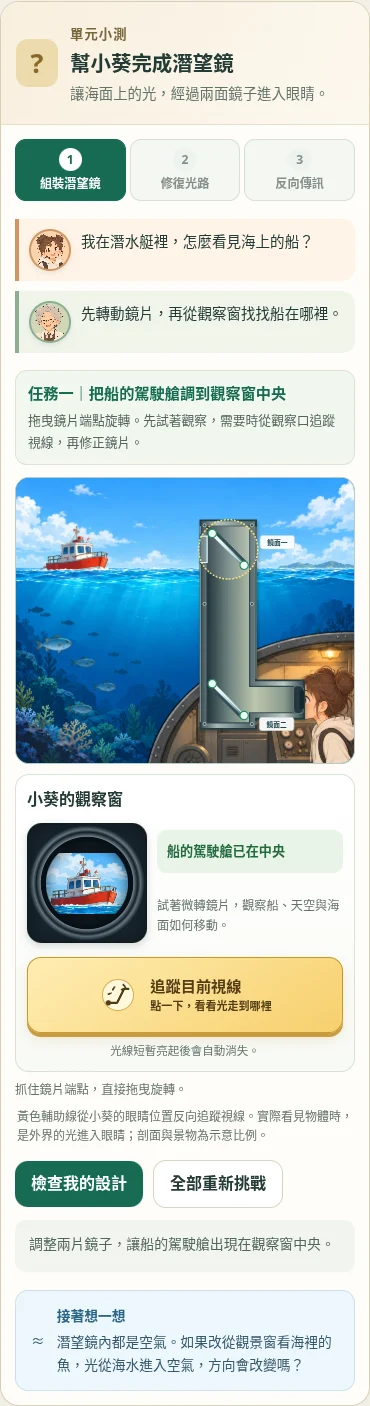
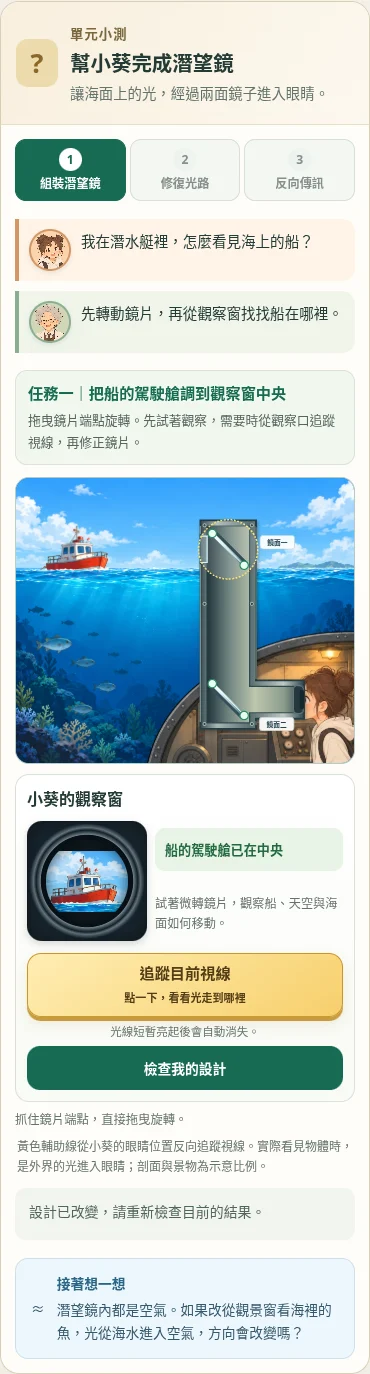
Simplify periscope controls and place design checks below tracing

diff --git a/units/1/parts/1.2/index.html b/units/1/parts/1.2/index.html
@@ -103,7 +103,7 @@
   </style>
   <link rel="stylesheet" href="assets/curved-mirrors.css?v=1">
   <link rel="stylesheet" href="assets/reversible-light.css?v=3">
-  <link rel="stylesheet" href="assets/periscope.css?v=6">
+  <link rel="stylesheet" href="assets/periscope.css?v=7">
 </head>
 <body>
   <header class="shell masthead">
@@ -431,8 +431,9 @@
                   </svg>
                 </div>
                 <aside class="periscope-view" aria-label="從潛望鏡看到的景象"><h3>小葵的觀察窗</h3><div class="periscope-lens-frame"><canvas id="periscope-view" width="240" height="240" role="img" aria-label="觀察窗載入中"></canvas></div><div id="periscope-view-state" class="periscope-view-state" role="status">正在準備觀察窗…</div><p id="periscope-view-copy">景象隨鏡片轉動；管壁擋住的區域會變暗。</p><div class="periscope-trace-action" id="periscope-trace-action">
-                    <button type="button" id="periscope-pulse" class="periscope-pulse-button" aria-describedby="periscope-pulse-note"><span class="periscope-pulse-icon" aria-hidden="true"><svg viewBox="0 0 32 32" width="28" height="28" fill="none"><path d="M5 25H15L23 9H28" stroke="currentColor" stroke-width="2.5" stroke-linecap="round" stroke-linejoin="round"/><circle cx="5" cy="25" r="3" fill="currentColor"/><path d="M22 4L25 8L20 10M10 10L12 7M5 15L8 14" stroke="currentColor" stroke-width="2" stroke-linecap="round" stroke-linejoin="round"/></svg></span><span class="periscope-pulse-label">追蹤目前視線</span><span class="periscope-pulse-invite" aria-hidden="true">點一下，看看光走到哪裡</span></button>
+                    <button type="button" id="periscope-pulse" class="periscope-pulse-button" aria-describedby="periscope-pulse-note"><span class="periscope-pulse-label">追蹤目前視線</span><span class="periscope-pulse-invite" aria-hidden="true">點一下，看看光走到哪裡</span></button>
                     <p class="periscope-pulse-note" id="periscope-pulse-note" role="status">光線短暫亮起後會自動消失。</p>
+                    <div class="periscope-design-action" id="periscope-design-action"><button type="button" id="periscope-check" class="action">檢查我的設計</button></div>
                   </div><div class="periscope-view-meter">轉錯時，可能看見天空、海面，或被管壁遮住。</div></aside>
               </div>
               <div class="periscope-controls" id="periscope-signal-controls" hidden><button type="button" id="periscope-signal" class="periscope-signal" aria-pressed="false" hidden disabled>發送訊號光</button></div>
@@ -440,7 +441,7 @@
               <p class="periscope-model-note">黃色輔助線從小葵的眼睛位置反向追蹤視線。實際看見物體時，是外界的光進入眼睛；剖面與景物為示意比例。</p>
               <div class="periscope-question" id="periscope-question-1" hidden><h3>哪一片鏡子被轉動了？</h3><p>比較原本的路線，先作判斷，再試著修復。</p><div class="periscope-choice-row"><button class="periscope-answer" type="button" data-diagnosis="0" aria-pressed="false">鏡面一</button><button class="periscope-answer" type="button" data-diagnosis="1" aria-pressed="false">鏡面二</button></div></div>
               <div class="periscope-question" id="periscope-question-2" hidden><h3>鏡子不動，從眼睛的位置沿原光路反向發出訊號，會怎麼走？</h3><p>先預測，再按「發送訊號光」比較藍光與原本的路線。</p><div class="periscope-answer-list"><button class="periscope-answer" type="button" data-prediction="same" aria-pressed="false">沿完整的原路徑返回，從上方入口照向船。</button><button class="periscope-answer" type="button" data-prediction="inside" aria-pressed="false">只有管內的路徑重合，離開入口後方向會不同。</button><button class="periscope-answer" type="button" data-prediction="turn" aria-pressed="false">兩次反射後會換一條路，需要再調鏡子才能照向船。</button></div></div>
-              <div class="periscope-footer"><button type="button" id="periscope-check" class="action">檢查我的設計</button><button type="button" id="periscope-next" class="action" hidden>前往修復光路 →</button><button type="button" id="periscope-restart" class="secondary">全部重新挑戰</button></div>
+              <div class="periscope-footer" hidden><button type="button" id="periscope-next" class="action" hidden>前往修復光路 →</button></div>
               <div id="periscope-feedback" class="periscope-feedback" role="status">調整兩片鏡子，讓船的駕駛艙出現在觀察窗中央。</div>
               <div id="periscope-complete" class="periscope-complete" hidden><h3>任務完成！小葵看見船，也把訊號送回去了。</h3><p>每一次反射都遵守入射角等於反射角。鏡面固定時，光也能沿原路徑反向傳播。</p></div>
             </div>
@@ -473,6 +474,6 @@
   <script type="module" src="assets/reflection-3d.js?v=46"></script>
   <script type="module" src="assets/laser-reflection.js?v=36"></script>
   <script type="module" src="assets/reversible-light.js?v=3"></script>
-  <script type="module" src="assets/periscope.js?v=10"></script>
+  <script type="module" src="assets/periscope.js?v=12"></script>
 </body>
 </html>

diff --git a/units/1/parts/1.2/assets/periscope.css b/units/1/parts/1.2/assets/periscope.css
@@ -21,16 +21,17 @@
 .periscope-controls button:disabled{cursor:default;background:#f1f4ef;color:#7b8d83;border-color:#d9e1d9}.periscope-pulse-note{margin:9px 0 0;color:#557465;font-size:.82rem}.periscope-path circle{pointer-events:none}
 
 /* 讓視線追蹤直接出現在觀察窗的操作情境內。 */
-.periscope-view{gap:10px}
-.periscope-trace-action{display:grid;gap:8px;margin-block:auto;padding-block:0}
-.periscope-pulse-button{display:grid;justify-items:center;gap:4px;width:100%;min-height:100px;padding:8px 7px;border:1px solid #c9972e;border-radius:14px;background:linear-gradient(145deg,#ffedb3,#f7cf6c);color:#523d16;box-shadow:0 4px 0 #c89c40,0 7px 14px #a7792026;cursor:pointer;transition:background .15s,box-shadow .15s,transform .15s;line-height:1.5}
-.periscope-pulse-icon{display:grid;place-items:center;width:32px;height:32px;border:1px solid #d8ad51;border-radius:50%;background:#fff8dd}
+.periscope-view{gap:8px}
+.periscope-cutaway{align-self:start}
+.periscope-trace-action{display:grid;gap:6px;margin-block:auto;padding-block:0}
+.periscope-pulse-button{display:grid;justify-items:center;gap:4px;width:100%;min-height:64px;padding:8px 7px;border:1px solid #c9972e;border-radius:14px;background:linear-gradient(145deg,#ffedb3,#f7cf6c);color:#523d16;box-shadow:0 4px 0 #c89c40,0 7px 14px #a7792026;cursor:pointer;transition:background .15s,box-shadow .15s,transform .15s;line-height:1.5}
 .periscope-pulse-label{font-size:.95rem;font-weight:850}.periscope-pulse-invite{font-size:.69rem;font-weight:650}
 .periscope-pulse-button:not(:disabled):hover{background:linear-gradient(145deg,#fff2c8,#ffda79);transform:translateY(-2px);box-shadow:0 6px 0 #c89c40,0 10px 18px #a7792033}
 .periscope-pulse-button:not(:disabled):active{transform:translateY(3px);box-shadow:0 1px 0 #c89c40}
 .periscope-pulse-button:disabled{cursor:default;background:#f4e8c8;color:#715c2f;box-shadow:0 2px 0 #d5bd82}
-.periscope-trace-action .periscope-pulse-note{margin:0;text-align:center;font-size:.72rem;line-height:1.65}
+.periscope-trace-action .periscope-pulse-note{margin:0;text-align:center;font-size:.72rem;line-height:1.5}
+.periscope-design-action .action{width:100%;min-height:44px;padding:8px;font-size:.86rem}
 .periscope-view-meter{margin-top:0}
 #unit-quiz[data-phase="2"] .periscope-view-meter{margin-top:auto}
-@media(max-width:1050px) and (min-width:601px),(max-width:600px){.periscope-lens-frame{grid-row:2/4}.periscope-trace-action{grid-column:1/-1;margin:4px 0 0;padding:0}.periscope-pulse-button{grid-template-columns:40px auto;justify-content:center;column-gap:12px;row-gap:0;min-height:76px;padding:10px 14px}.periscope-pulse-icon{grid-row:1/3;align-self:center}.periscope-pulse-label,.periscope-pulse-invite{justify-self:start}.periscope-pulse-label{align-self:end}.periscope-pulse-invite{align-self:start}}
+@media(max-width:1050px) and (min-width:601px),(max-width:600px){.periscope-lens-frame{grid-row:2/4}.periscope-trace-action{grid-column:1/-1;margin:4px 0 0;padding:0}}
 @media(prefers-reduced-motion:reduce){.periscope-pulse-button{transition:none}.periscope-pulse-button:not(:disabled):hover,.periscope-pulse-button:not(:disabled):active{transform:none}}

diff --git a/units/1/parts/1.2/assets/periscope.js b/units/1/parts/1.2/assets/periscope.js
@@ -174,6 +174,9 @@ if(root) {
     $$('[data-prediction]').forEach(b=>b.setAttribute('aria-pressed',String(b.dataset.prediction===state.prediction)));
     updatePulseControls();
     $('#periscope-signal').hidden=state.stage!==2;$('#periscope-signal').disabled=!state.prediction;$('#periscope-signal').setAttribute('aria-pressed',String(state.signal));$('#periscope-signal').textContent=state.signal?'關閉訊號光':'發送訊號光';
+    const check=$('#periscope-check'),checkHost=state.stage===2?$('.periscope-footer'):$('#periscope-design-action');
+    if(check.parentElement!==checkHost)checkHost.prepend(check);
+    $('.periscope-footer').hidden=state.stage!==2&&!state.done[state.stage];
     $('#periscope-check').textContent=['檢查我的設計','檢查修復結果','確認我的預測'][state.stage];
     $('#periscope-next').hidden=!state.done[state.stage]||state.stage===2;$('#periscope-next').textContent=state.stage===0?'前往修復光路 →':'前往反向傳訊 →';
     $('#periscope-complete').hidden=!state.done[2];
@@ -219,7 +222,7 @@ if(root) {
   $$('[data-prediction]').forEach(b=>b.addEventListener('click',()=>{invalidate();state.prediction=b.dataset.prediction;state.verified=false;state.signal=false;render();}));
   $('#periscope-pulse').addEventListener('click',emitPulse);
   $('#periscope-signal').addEventListener('click',()=>{if(!state.prediction)return;state.signal=!state.signal;if(state.signal)state.verified=true;render();});
-  function enterStage(stage,reset=false) {
+  function enterStage(stage) {
     if(stage>0&&!state.done[stage-1])return;
     cancelPulse(true);state.stage=stage;state.signal=false;state.verified=false;
     const content=[
@@ -229,7 +232,6 @@ if(root) {
     ][stage];
     ['#periscope-student','#periscope-grandpa','#periscope-task-title','#periscope-task-copy'].forEach((id,i)=>$(id).textContent=content[i]);
     if(stage===0) {
-      if(reset){state.angles=[38,51];state.done=[false,false,false];}
       feedback('調整兩片鏡子，讓船的駕駛艙出現在觀察窗中央。');
     } else if(stage===1) {
       state.angles=[Math.min(65,state.saved[0]+9),state.saved[1]];state.diagnosis=null;state.done[1]=false;state.done[2]=false;
@@ -242,7 +244,6 @@ if(root) {
     b.addEventListener('keydown',e=>{if(!['ArrowLeft','ArrowRight','Home','End'].includes(e.key))return;e.preventDefault();const available=$$('.periscope-steps button').filter(x=>!x.disabled),at=available.indexOf(b),next=e.key==='Home'?0:e.key==='End'?available.length-1:(at+(e.key==='ArrowRight'?1:-1)+available.length)%available.length;available[next].click();available[next].focus();});
   });
   $('#periscope-next').addEventListener('click',()=>{enterStage(state.stage+1);$('#periscope-panel').scrollIntoView({block:'start',behavior:'smooth'});});
-  $('#periscope-restart').addEventListener('click',()=>enterStage(0,true));
   $('#periscope-check').addEventListener('click',()=>{
     const info=observe(state.angles);
     if(state.stage===0) {

diff --git a/tests/README.md b/tests/README.md
@@ -139,11 +139,11 @@ CHROMIUM_PATH=/usr/bin/chromium node --test tests/unit-5.1-dual-scale.test.cjs t
 CHROMIUM_PATH=/usr/bin/chromium node --test --test-concurrency=1 tests/unit-1.2-periscope.test.cjs tests/unit-1.2-mirror.test.cjs tests/unit-1.2-curved-mirrors.test.cjs tests/unit-1.2-reversible.test.cjs
 ```
 
-潛望鏡檢查有限鏡片與單面反射、36 × 36 組角度的反射分量及管道邊界、不同視線的獨立反向傳播、船／天空／海面及局部／完全遮擋、觀察窗實際像素與完整三維視線的交叉核對。實際操作涵蓋兩片鏡子的滑鼠拖曳、CDP 觸控拖曳、鍵盤與半度微調、角度上下限、取消拖曳、光路及提示、第一關只依實際對準判定、後兩關答案與操作門檻、反向訊號重合、狀態失效及完整重設，以及 1440／1280／1024／768／390 px 版面、資源錯誤及離頁時 GPU 資源釋放。
+潛望鏡檢查有限鏡片與單面反射、36 × 36 組角度的反射分量及管道邊界、不同視線的獨立反向傳播、船／天空／海面及局部／完全遮擋、觀察窗實際像素與完整三維視線的交叉核對。實際操作涵蓋兩片鏡子的滑鼠拖曳、CDP 觸控拖曳、鍵盤與半度微調、角度上下限、取消拖曳、光路及提示、第一關只依實際對準判定、後兩關答案與操作門檻、反向訊號重合、狀態失效及沒有整份重來按鈕，以及 1440／1280／1024／768／390 px 版面、資源錯誤及離頁時 GPU 資源釋放。
 
 與第三至六區循序執行回歸，避免多個軟體 WebGL 瀏覽器競用。實體點擊前取消平滑捲動並確認座標穩定，不以強制點擊略過命中問題。觀察窗取樣核對使用相同 Canvas CPU 色彩取樣方式，以免 GPU／CPU 縮圖插值差異被誤判為光路偏差。整卡截圖暫隱藏外側 sticky 導覽，避免離開視窗的部分在長截圖中混入懸浮導覽；正式頁面不隱藏導覽。截圖與人工對照保留在 `docs/reviews/unit-1.2-periscope/`。
 
-潛望鏡提示光已改為整束實際光路短暫亮起後熄滅。另檢查顯示路徑與獨立追跡完全一致、沒有箭頭／移動光點／圈叉、撞壁光斑位於真實交點、快速連點不疊加或延長、自動消失及空檔、拖曳／微調立即取消、沒有額外文字提示或分關重設控制、五種寬度的追蹤按鈕位於觀察窗說明下方且可點擊、撞壁光斑隨追蹤熄滅、重設／換關取消舊計時器、第三關比較線不被過期動畫清除，以及減少動態與手機觸控。淡出曲線純函式與實際 SVG 路徑、時間及畫面分別核對。 提示已改為從小葵眼位反向追蹤，另以 1296 組角度比對中央視線，並實際檢查五組船／天空／海面／遮擋設定的 SVG 起點一律為眼位，管外直線延伸不自動接船。
+潛望鏡提示光已改為整束實際光路短暫亮起後熄滅。另檢查顯示路徑與獨立追跡完全一致、沒有箭頭／移動光點／圈叉、撞壁光斑位於真實交點、快速連點不疊加或延長、自動消失及空檔、拖曳／微調立即取消、沒有額外文字提示或分關重設控制、五種寬度的追蹤按鈕無圖示且縮為兩行文字、檢查按鈕位於追蹤入口下方且兩者均在觀察窗內、撞壁光斑隨追蹤熄滅、換關取消舊計時器、第三關比較線不被過期動畫清除，以及減少動態與手機觸控。淡出曲線純函式與實際 SVG 路徑、時間及畫面分別核對。 提示已改為從小葵眼位反向追蹤，另以 1296 組角度比對中央視線，並實際檢查五組船／天空／海面／遮擋設定的 SVG 起點一律為眼位，管外直線延伸不自動接船。
 
 ## 5.1 統一為 3.2 頁面版型
 

diff --git a/units/1/parts/1.2/assets/README.md b/units/1/parts/1.2/assets/README.md
@@ -30,7 +30,7 @@
 ## 單元小測：潛望鏡
 
 - `periscope-optics.mjs`：與 DOM 無關的有限單面平面鏡、封閉管壁與矩形入口幾何。向量反射、三維離軸視線、場景取樣位置、視野遮擋及反向訊號均可獨立檢查。
-- `periscope.js`／`periscope.css`：組裝、修復、反向傳訊三階段，以及鏡片端點拖曳、鏡片聚焦後的方向鍵操作、預測驗證、視線追蹤及全部重新挑戰。新鏡片使用專用 `scope-mirror-*` 類名，避免影響第五區 `mirror-hit` 反射點。
+- `periscope.js`／`periscope.css`：組裝、修復、反向傳訊三階段，以及鏡片端點拖曳、鏡片聚焦後的方向鍵操作、預測驗證及視線追蹤。新鏡片使用專用 `scope-mirror-*` 類名，避免影響第五區 `mirror-hit` 反射點。
 - `periscope/submarine-scene.webp`：2026-10-28 依核可示意圖生成的無文字、無光路、無鏡片背景，含船、海面、水下及乾燥艙內小葵；1364 × 1152，約 163 KiB。鏡片、管道、光線及操作點由程式繪製，生成圖不作光學幾何證據。
 - 觀察窗使用同一素材的船／天空與海面區域作遠方場景取樣，不使用預製成功／失敗圖。海面以下取樣延伸海面紋理，避免讓水面以上入口看見背景中的水下魚或艙內。
 - 這是使用插畫遠景的幾何光學教學模型，不是海水、玻璃窗或完整眼球的物理渲染。入口薄窗忽略折射、吸收與厚度，不新增透鏡放大；上方入口在海面以上，整條管內路徑在空氣中。完整限制及來源見 `docs/reviews/unit-1.2-periscope/review.md`。
@@ -42,7 +42,7 @@
 ### 一次性提示光
 
 - `periscope-pulse.mjs`：整束提示光的亮起／淡出時間曲線；完整路徑直接使用同次幾何追跡結果。
-- `periscope.js`：發射時固定這次完整光路，80 毫秒亮起、650 毫秒維持、220 毫秒淡出，之後 1.1 秒空檔。視線追蹤限制重複觸發；調整、重設、換關及離頁會取消舊動畫與計時器。減少動態模式以 0.7 秒靜態全光路取代漸亮／淡出。
+- `periscope.js`：發射時固定這次完整光路，80 毫秒亮起、650 毫秒維持、220 毫秒淡出，之後 1.1 秒空檔。視線追蹤限制重複觸發；調整、換關及離頁會取消舊動畫與計時器。減少動態模式以 0.7 秒靜態全光路取代漸亮／淡出。
 - 圖片與人物維持前次小葵修正版；新按鈕不再使用開關式 `aria-pressed`，顯示狀態以簡短文字提示。
 
 2026-10-28 視覺修訂：依使用者回饋取消移動短線、大箭頭及圈叉；一次短暫照亮整條實際路徑，撞壁處只繪柔和光斑。船的標籤上移，避免遮住完整入射線。
@@ -58,3 +58,7 @@
 2026-10-28 控制精簡：刪除額外文字提示、輔助法線與分關重設控制，前兩關操作列只顯示視線追蹤，第三關只顯示訊號光。
 
 2026-10-28 入口位置：將短暫視線追蹤移入觀察窗卡片，使用金黃色按鈕、光線圖示與點擊邀請。標籤以獨立文字節點更新，追蹤中與冷卻時保留按鈕外觀結構；第三關隱藏整個追蹤入口。
+
+2026-10-28 完整重來控制精簡：移除「全部重新挑戰」、對應監聽與整份重設分支。完成三關後顯示成果，仍可用既有階段頁籤回看及調整。
+
+2026-10-28 按鈕排列：追蹤按鈕移除圖示並縮為 64 px 兩行文字版；觀察窗內新增檢查操作位置。`render()` 將同一個檢查按鈕在觀察窗與第三關題目後方之間移動，保留事件與可存取文字。沒有另外複製按鈕或重新挑戰控制。

diff --git a/docs/reviews/unit-1.2-periscope/review.md b/docs/reviews/unit-1.2-periscope/review.md
@@ -139,3 +139,19 @@
 手機與中型單欄版面將按鈕放在觀察窗卡片內的下一列；五種寬度檢查按鈕在觀察窗內、位於景象說明下方、觸控尺寸及無溢位。將 601–780 px 也納入單欄版面，避免新增入口將剖面圖容器撐高、露出底色。結果見 `trace-placement-tests.log`。
 
 本輪 **23 項檢查通過、0 失敗**（含外層項目）。已人工檢視桌面與手機截圖，確認按鈕在觀察窗內且醒目，剖面圖沒有新增底色空白；短暫光線、真實滑鼠／觸控拖曳與完整三關流程正常。
+
+## 移除全部重新挑戰（2026-10-28）
+
+依使用者回饋移除「全部重新挑戰」按鈕、監聽及 `enterStage` 中只為整份重來使用的參數與狀態分支。三關解鎖、完成回饋、既有階段頁籤及調整後通關失效規則保留。
+
+檢查改為確認按鈕不存在、完成三關與切換階段時的動畫取消。重新載入僅用於隔離測試；沒有增加替代重來控制。結果見 `no-restart-tests.log`。
+
+移除整份重來控制的檢查於環境中斷前已完成：**23 項通過、0 失敗**（含外層項目），紀錄見 `no-restart-tests.log`。本次與後續按鈕排列修訂一併交付。
+
+## 縮小追蹤入口並將檢查放在下方（2026-10-28）
+
+依使用者要求移除追蹤按鈕的圓圈與 SVG 光線圖示，按鈕只保留「追蹤目前視線」及邀請小字，高度由 100 px 縮為約 64 px。「檢查我的設計」放到同一觀察窗卡片中追蹤入口下方，修復關的檢查也沿用同位置；反向傳訊關的確認按鈕放在預測題後，以維持作答順序。使用同一個按鈕節點及事件，切換階段時移至適當位置。
+
+五種寬度檢查無圖示、緊湊尺寸、檢查按鈕在追蹤按鈕下方及卡片內、剖面沒有被撐出空白，另確認完整三關流程。結果見 `compact-actions-tests.log`。
+
+本輪 **23 項檢查通過、0 失敗**（含外層項目）。已人工檢視桌面及手機截圖，確認追蹤按鈕只剩兩行文字、尺寸縮小、檢查按鈕移到下方；上一輪移除的全部重新挑戰也沒有再出現。

diff --git a/units/1/parts/1.2/storyline.md b/units/1/parts/1.2/storyline.md
@@ -149,3 +149,11 @@
 ### 觀察窗內的視線追蹤（2026-10-28）
 
 將追蹤目前視線按鈕移到觀察窗說明下方，以金黃色按鈕、光線圖示及邀請文字強調可點擊嘗試；手機版同樣置於觀察窗卡片內。追蹤中與冷卻狀態仍明示，光線不常駐。
+
+### 移除全部重新挑戰（2026-10-28）
+
+移除整份小測的重來按鈕及其重設狀態分支。以完成任務、檢查設計與既有階段頁籤作為操作流程，完成畫面不再提供額外重來控制。
+
+### 縮小追蹤按鈕並集中檢查操作（2026-10-28）
+
+追蹤按鈕改為只有標題與邀請小字的兩行文字，不使用圓形光線圖示；將檢查我的設計放在追蹤入口下方。修復檢查沿用此位置，反向預測確認則位於題目之後。
